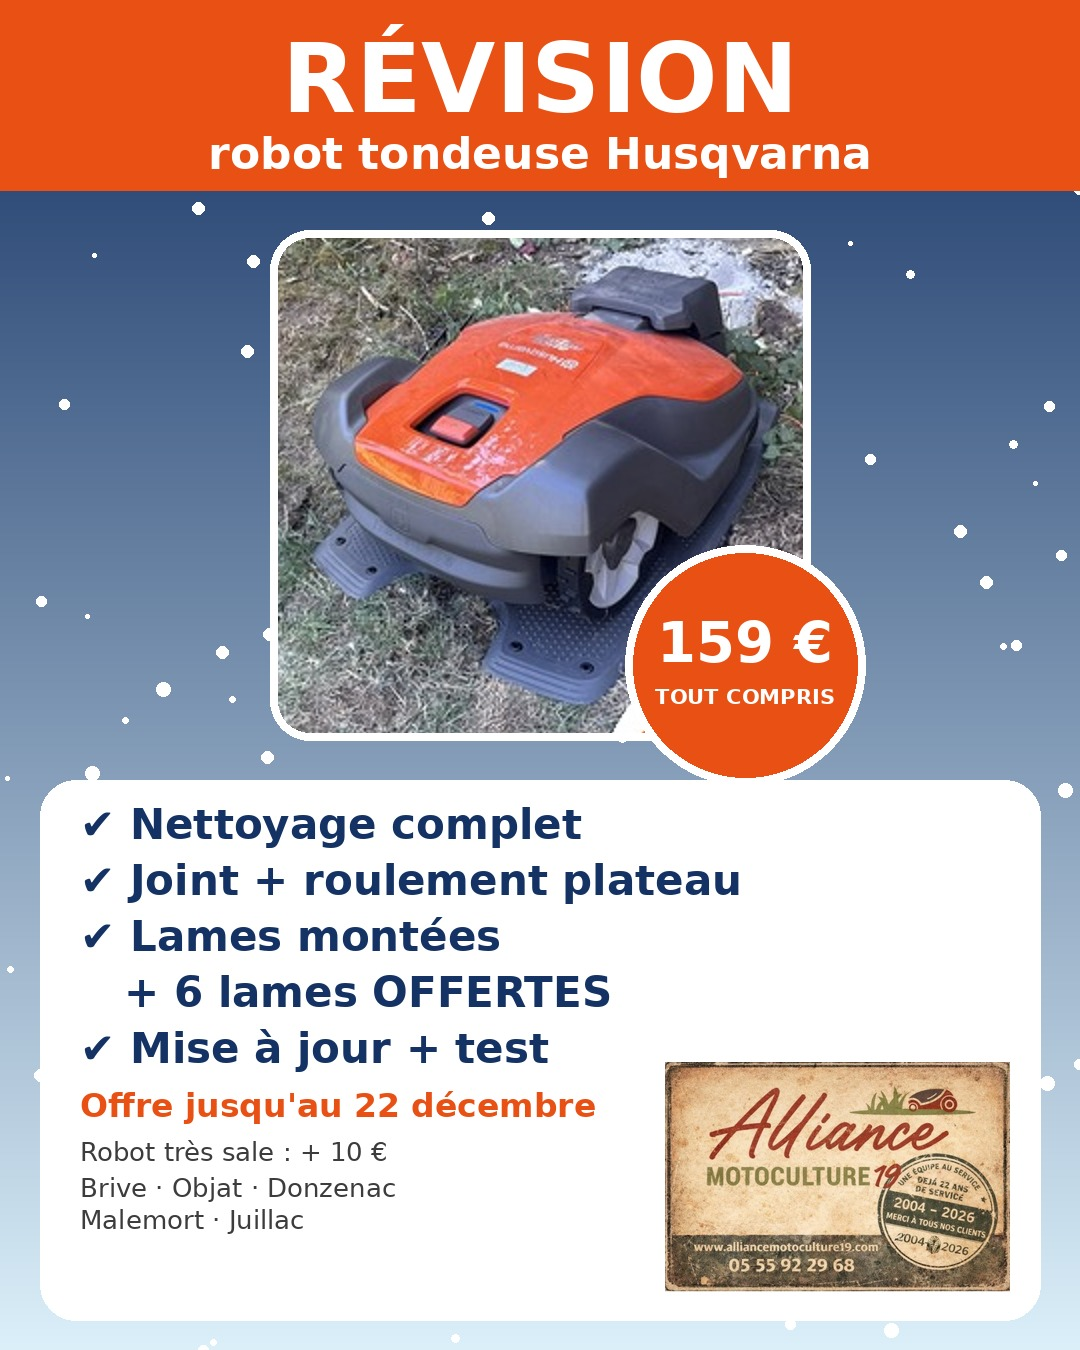
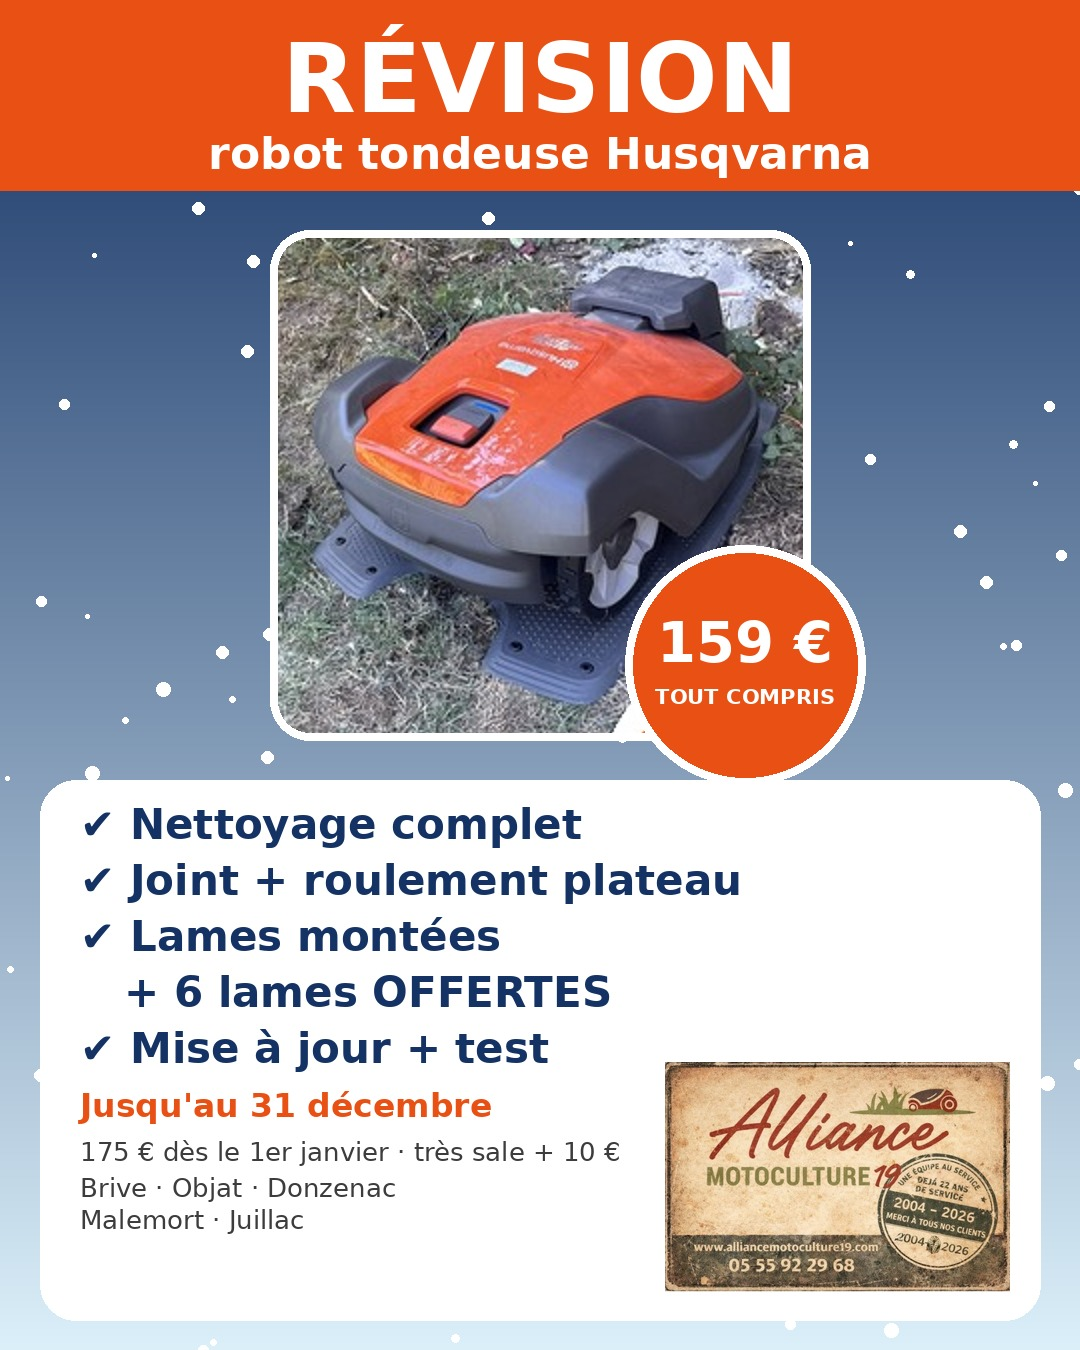
Révision robot : 159 € jusqu'au 31 déc., 175 € ensuite (aligné sur le mail ERP)
Claude-Session: https://claude.ai/code/session_01Y8vkBZbY5SaRzJwZZfv6wA

Changed region(s): [[0.0611, 0.8089, 0.55, 0.8711]]

diff --git a/A_PROGRAMMER.md b/A_PROGRAMMER.md
@@ -12,12 +12,12 @@ automatique Instagram fonctionne (échecs les 6 et 7 nov. 2026).
 | Au plus tôt (à la place du post prévu ce jour-là, à décaler au créneau libre suivant) | 9h00 | vendu_orec_hr662.jpg | VENDU OREC Bull Mower HR662, moteur Honda : merci au client pour sa commande spécifique |
 | Mar. 24 nov. 2026 | 7h30 | casque_husqvarna_micro.jpg | Casque élagueur pro Husqvarna, micro intégré |
 | Ven. 27 nov. 2026 | 12h15 | revision_robot_husqvarna.jpg | Rappel révision robot Husqvarna 159 € |
-| Mer. 9 déc. 2026 | 12h15 | revision_robot_husqvarna.jpg | Révision robot : plus que 2 semaines |
-| Ven. 18 déc. 2026 | 12h15 | revision_robot_husqvarna.jpg | Révision robot : derniers jours (fin 22 déc.) |
+| Mer. 9 déc. 2026 | 12h15 | revision_robot_husqvarna.jpg | Révision robot : 159 € jusqu'au 31 déc., 175 € ensuite |
+| Lun. 28 déc. 2026 | 12h15 | revision_robot_husqvarna.jpg | Révision robot : derniers jours (159 € jusqu'au 31 déc., 175 € dès le 1er janv.) |
 
 ## Offre révision robot Husqvarna
 159 € tout compris : nettoyage complet, joint + roulement du plateau, lames neuves montées + 6 lames
-offertes, mise à jour + test. Robot très sale : + 10 €. Jusqu'au 22 décembre 2026.
+offertes, mise à jour + test. Robot très sale : + 10 €. 159 € pour toute réservation avant le 31 décembre 2026, 175 € à partir du 1er janvier 2027. Mail envoyé le 12 nov. depuis l'ERP (contact@) avec lien de prise de RDV en ligne.
 
 ## Textes
 ### VENDU OREC
@@ -48,7 +48,7 @@ Révision complète : 159 € tout compris
 👉 Mise à jour + test
 
 Robot très sale : + 10 €.
-Offre jusqu'au 22 décembre.
+159 € jusqu'au 31 décembre, 175 € à partir du 1er janvier.
 
 ### Pied de texte (Instagram / Facebook)
 📍 Alliance Motoculture 19 – Ussac / Brive
